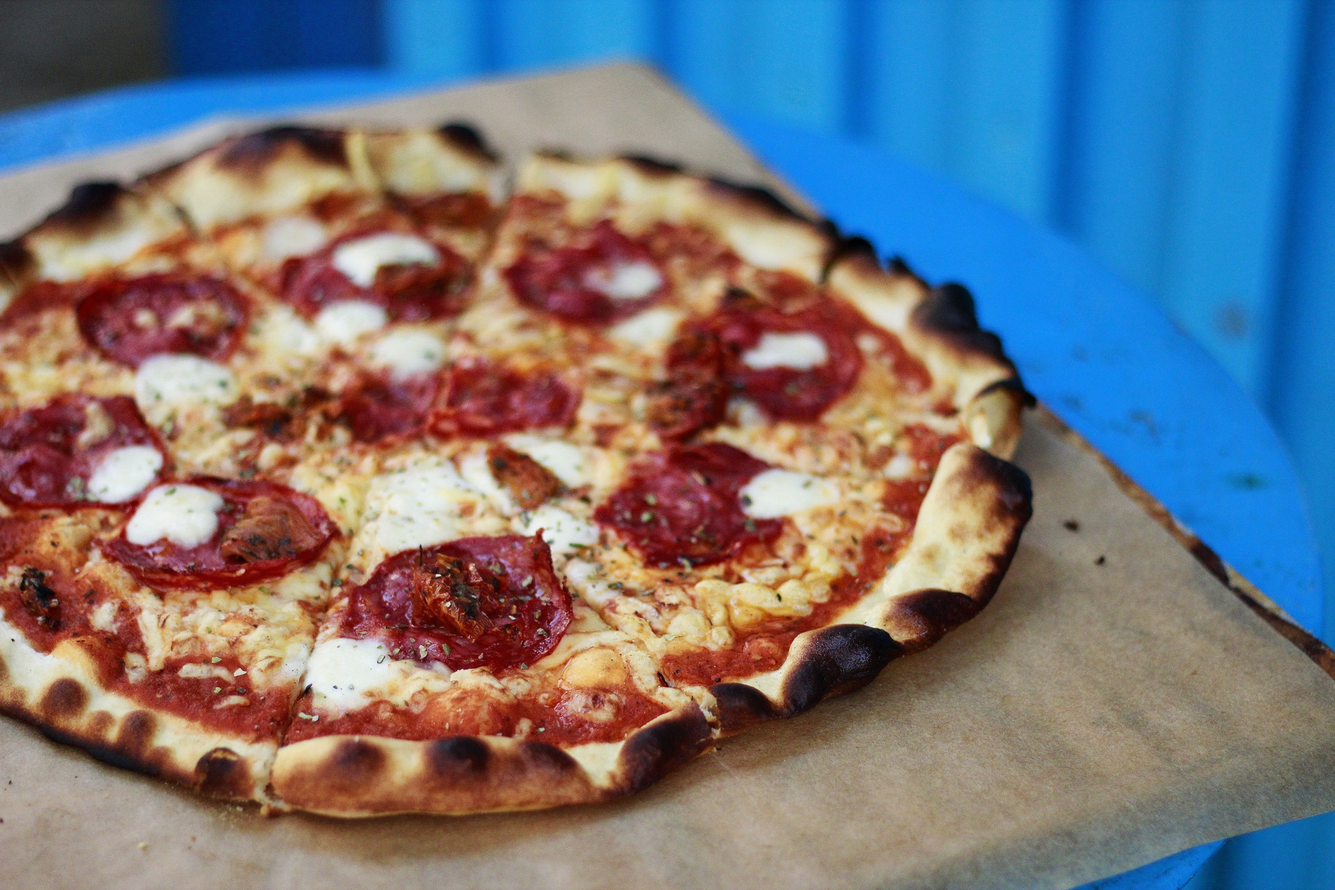
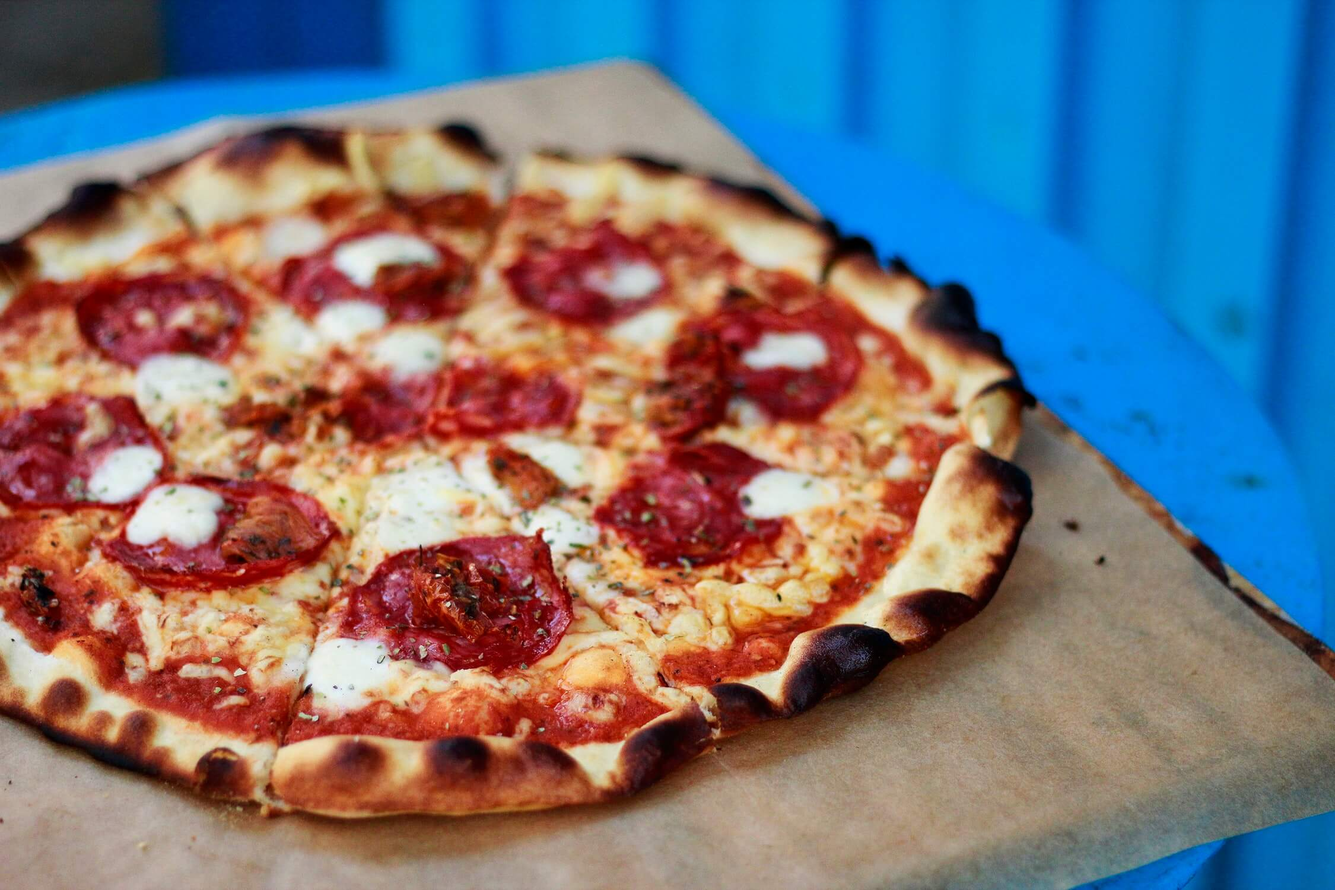
Replaced optimized images. Added Menu and FoodGrid

diff --git a/src/Data/FoodData.js b/src/Data/FoodData.js
@@ -1,0 +1,51 @@
+export const foodItems = [
+  {
+    name: "Cheese Pizza",
+    img: "/img/pizza.png",
+    section: "Pizza",
+    price: 1
+  },
+  {
+    name: "Pepperoni Pizza",
+    img: "/img/pizza2.jpeg",
+    section: "Pizza",
+    price: 1.5
+  },
+  {
+    name: "Chicken Pizza",
+    img: "/img/chicken-pizza.jpeg",
+    section: "Pizza",
+    price: 2
+  },
+  {
+    img: "/img/healthy-pizza.jpeg",
+    name: "Veggie Pizza",
+    section: "Pizza",
+    price: 2
+  },
+  {
+    img: "/img/burger.jpeg",
+    name: "Burger",
+    section: "Sandwich",
+    price: 3
+  },
+  { img: "/img/gyro.jpeg", name: "Gyro", section: "Sandwich", price: 4.5 },
+  {
+    img: "/img/sandwich.jpeg",
+    name: "Shrimp PoBoy",
+    section: "Sandwich",
+    price: 6
+  },
+  {
+    img: "/img/fries.jpeg",
+    name: "Fries",
+    section: "Sides",
+    price: 1
+  },
+  {
+    price: 1,
+    name: "Soda",
+    section: "Drinks",
+    choices: ["Coke", "Sprite", "Root Beer"]
+  }
+];

diff --git a/src/Menu/FoodGrid.js b/src/Menu/FoodGrid.js
@@ -1,0 +1,38 @@
+import styled from "styled-components";
+import { Title } from "../Styles/title";
+
+export const FoodGrid = styled.div`
+  display: grid;
+  grid-template-columns: 1fr 1fr;
+  gap: 20px;
+  padding-bottom: 40px;
+`;
+
+
+export const FoodLabel = styled(Title)`
+  position: absolute; /* or use display: inline-block */
+  background-color: rgba(255, 255, 255, 0.8);
+  padding: 5px;
+`;
+
+export const Food = styled(Title)`
+  height: 100px;
+  padding: 10px; 
+  font-size: 20px; 
+  background-image: ${({img}) => `url(${img});` } ;
+  background-position: center;
+  background-size: cover;
+  filter: contrast(75%);
+  border-radius: 7px; 
+  margin-top: 5px; 
+  transition-property: box-shadow margin-top filter; 
+  transition-duration: .1s; 
+  box-shadow: 0px 0px 2px 0px grey;
+  &:hover {
+    cursor: pointer; 
+    filter: contrast(100%); 
+    margin-top: 0px; 
+    /* margin-bottom: 5px;  */
+    box-shadow: 0px 5px 10px 0px grey;
+  }
+`;

diff --git a/src/Menu/Menu.js b/src/Menu/Menu.js
@@ -1,0 +1,26 @@
+import React from 'react';
+import styled from "styled-components";
+import { foodItems } from '../Data/FoodData';
+import { Food, FoodGrid, FoodLabel } from './FoodGrid';
+
+// import { foods } from "../Data/FoodData";
+// import { Food, FoodGrid, FoodLabel } from "./FoodGrid";
+// import { formatPrice } from "../Data/FoodData";
+
+const MenuStyled = styled.div`
+  height: 1000px;
+  margin: 0px 400px 50px 20px;
+`;
+
+export function Menu() {
+  return <MenuStyled>
+    <h1>Menu</h1>
+    <FoodGrid>
+      {foodItems.map(foodItem => (
+        <Food img={foodItem.img}>
+          <FoodLabel>{foodItem.name}</FoodLabel>
+        </Food>
+      ))}
+    </FoodGrid>
+  </MenuStyled>
+}

diff --git a/src/App.js b/src/App.js
@@ -2,6 +2,7 @@ import React from 'react';
 import { createGlobalStyle } from 'styled-components'
 import { Navbar } from './Navbar/Navbar';
 import { Banner } from './Banner/Banner';
+import { Menu } from './Menu/Menu';
 
 const GlobalStyle = createGlobalStyle`
   body {
@@ -20,6 +21,7 @@ function App() {
       <GlobalStyle />
       <Navbar />
       <Banner />
+      <Menu />
       <div>Hello pizzzza</div>
     </>
   );

diff --git a/src/Banner/Banner.js b/src/Banner/Banner.js
@@ -1,8 +1,9 @@
 import styled from 'styled-components';
 
 export const Banner = styled.div`
-  position: relative;
-  top: 49px;
+  /* position: relative;
+  top: 49px; */
+  padding-top: 49px;
   height: 200px;
   background-image: url("img/banner.jpeg");
   background-position: center;
